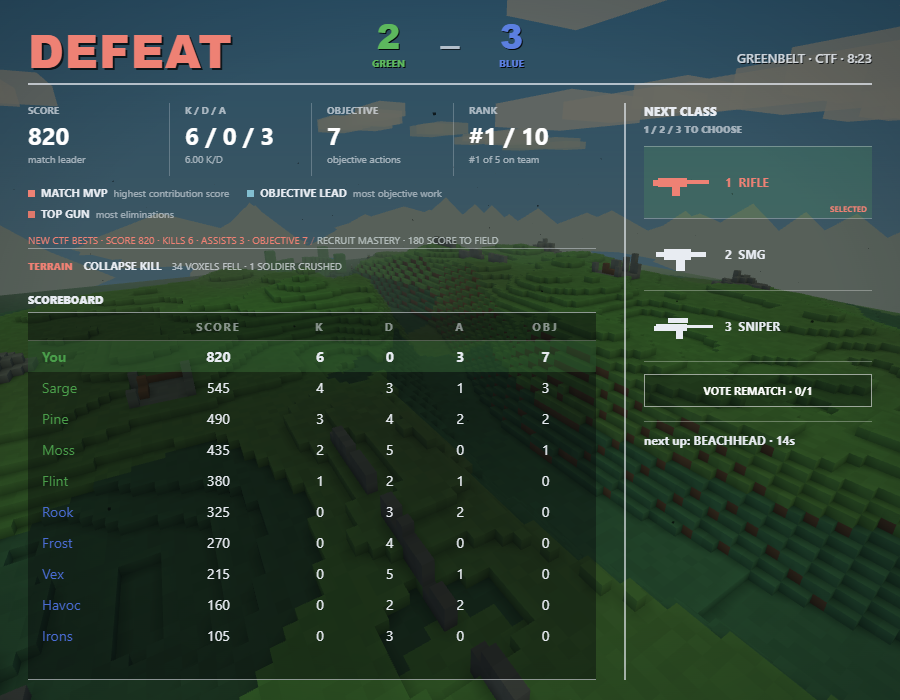
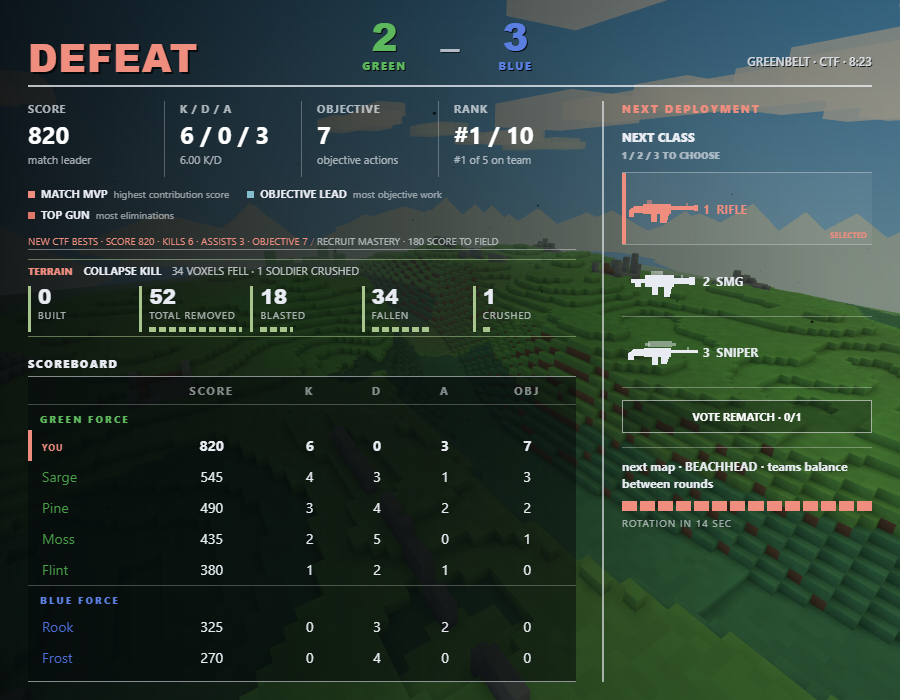
Give match results a Spadefall field-report identity

diff --git a/index.html b/index.html
@@ -185,38 +185,43 @@
      centers by its own visible width, so the block sits dead-center under
      the title instead of drifting right on invisible label padding. */
   .controls b { color:#ffd97a; font-weight:600; }
-  /* The result screen leaves the finished battlefield visible. Its few hard
-     rules resemble the scoreboard players already use during a round rather
-     than turning each fact into a decorative card. */
-  #end { justify-content:center; overflow:hidden; padding:20px 28px;
-    background:rgba(4,7,9,.58); --outcome:#9bd6ad; }
-  #end[data-outcome="defeat"] { --outcome:#ee8174; }
-  #endContent { width:min(1120px,100%); height:min(800px,calc(100vh - 40px));
-    display:grid; grid-template-rows:auto minmax(0,1fr); gap:18px; text-align:left; }
-  #endHeader { display:grid; grid-template-columns:1fr auto 1fr; align-items:end;
-    padding-bottom:13px; border-bottom:2px solid rgba(232,236,242,.72); }
-  #endTitle { color:var(--outcome); font:900 46px/.85 "Arial Black","Segoe UI",sans-serif;
+  /* Results are a hard-edged field report: the live battlefield remains visible
+     behind localized ink, while geometry and block counts carry meaning. */
+  #end { justify-content:center; overflow:hidden; padding:18px 28px;
+    background:linear-gradient(90deg,rgba(4,7,9,.90) 0%,rgba(4,7,9,.68) 48%,rgba(4,7,9,.34) 100%);
+    --outcome:#a9dfae; --terrain:#a7c58d; }
+  #end[data-outcome="defeat"] { --outcome:#ef8d7f; }
+  #end[data-map="beach"] { --terrain:#d0ad7c; }
+  #end[data-map="forest"] { --terrain:#b6a4cd; }
+  #end[data-map="desert"] { --terrain:#c9a16d; }
+  #end[data-map="crown"] { --terrain:#c7b778; }
+  #end[data-map="caldera"] { --terrain:#d18e73; }
+  #endContent { width:min(1210px,100%); height:min(850px,calc(100vh - 36px));
+    display:grid; grid-template-rows:auto minmax(0,1fr); gap:14px; text-align:left; }
+  #endHeader { display:grid; grid-template-columns:minmax(0,1fr) auto minmax(180px,1fr); align-items:end;
+    padding:0 0 12px; border-bottom:2px solid rgba(232,236,242,.78); }
+  #endTitle { color:var(--outcome); font:900 clamp(38px,4vw,58px)/.82 "Arial Black","Segoe UI",sans-serif;
     letter-spacing:1px; text-shadow:2px 2px 0 rgba(0,0,0,.72); }
-  #endScore { display:flex; align-items:flex-end; gap:16px; font-weight:800;
+  #endScore { display:flex; align-items:flex-end; gap:16px; font-weight:800; font-variant-numeric:tabular-nums;
     text-shadow:1px 1px 0 #05080a; }
-  #endScore .teamScore { min-width:72px; text-align:center; }
-  #endScore .teamScore b { display:block; font:900 35px/.9 "Arial Black","Segoe UI",sans-serif; }
-  #endScore .teamScore span { display:block; margin-top:4px; font-size:10px; }
+  #endScore .teamScore { min-width:80px; text-align:center; }
+  #endScore .teamScore b { display:block; font:900 39px/.9 "Arial Black","Segoe UI",sans-serif; }
+  #endScore .teamScore span { display:block; margin-top:5px; font-size:11px; letter-spacing:1.6px; }
   #endScore .green { color:var(--green); }
   #endScore .blue { color:var(--blue); }
   #endScore .divider { padding-bottom:13px; font-size:19px; opacity:.72; }
-  #endDetail { justify-self:end; padding-bottom:4px; font-size:13px; font-weight:600;
+  #endDetail { justify-self:end; padding-bottom:4px; font-size:12px; font-weight:600;
     text-align:right; text-shadow:1px 1px 0 #05080a; opacity:.85; }
-  #endBody { min-height:0; display:grid; grid-template-columns:minmax(0,1fr) 248px; gap:28px; }
+  #endBody { min-height:0; display:grid; grid-template-columns:minmax(0,1fr) 270px; gap:26px; }
   #endSummary { min-width:0; min-height:0; display:flex; flex-direction:column; }
   #endReport { flex:0 0 auto; border-bottom:1px solid rgba(232,236,242,.42); }
   #endStats { display:grid; grid-template-columns:repeat(4,1fr); }
-  .reportStat { min-width:0; padding:0 15px 10px; border-right:1px solid rgba(232,236,242,.26); }
+  .reportStat { min-width:0; padding:0 15px 10px; border-right:1px solid rgba(232,236,242,.3); }
   .reportStat:first-child { padding-left:0; }
   .reportStat:last-child { padding-right:0; border-right:0; }
-  .reportStat span { display:block; font-size:10px; font-weight:700; opacity:.68; }
+  .reportStat span { display:block; font-size:11px; font-weight:700; letter-spacing:.8px; opacity:.72; }
   .reportStat b { display:block; margin-top:2px; font-size:24px; color:#fff; }
-  .reportStat small { display:block; margin-top:1px; font-size:10px; opacity:.62; }
+  .reportStat small { display:block; margin-top:2px; font-size:11px; opacity:.68; }
   #endMedals { display:flex; flex-wrap:wrap; gap:6px 18px; min-height:20px;
     padding:9px 0 6px; }
   .medal { display:flex; align-items:baseline; gap:6px; white-space:nowrap; }
@@ -231,26 +236,39 @@
   #endBests::after { content:"  /  "; opacity:.45; }
   #endBests.new { color:var(--outcome); opacity:1; }
   #endMastery { color:#d9e3e4; }
-  #endFacts { flex:0 0 auto; padding:7px 0 4px; }
-  #endGoal, #endFieldwork, #endOperation, #endStory { display:none; padding:3px 0;
+  #endFacts { flex:0 0 auto; padding:9px 0 5px; }
+  #endGoal, #endFieldwork, #endOperation, #endStory { display:none; padding:4px 0;
     font-size:11px; line-height:1.35; text-transform:uppercase; }
   #endGoal.on, #endFieldwork.on { display:flex; justify-content:space-between; gap:16px; }
   #endOperation.on, #endStory.on { display:block; }
   #endGoalLabel, #endFieldworkLabel, #endOperationLabel, #endStoryLabel {
     margin-right:8px; font-size:10px; font-weight:800; color:var(--outcome); }
   #endGoalName, #endOperationTitle, #endStoryTitle { margin-right:7px; font-size:11px; }
-  #endGoalResult, #endFieldworkDetail, #endOperationDetail, #endStoryDetail { font-size:10px; opacity:.7; }
+  #endGoalResult, #endFieldworkDetail, #endOperationDetail, #endStoryDetail { font-size:11px; opacity:.75; }
+  #endStory { border-top:1px solid rgba(167,197,141,.55); border-bottom:1px solid rgba(167,197,141,.55); }
+  #endImpactMetrics { display:grid; grid-template-columns:repeat(5,minmax(56px,1fr)); gap:8px; margin-top:7px; }
+  .impactMetric { --fill:0%; border-left:3px solid var(--terrain); padding-left:7px; min-width:0; }
+  .impactMetric b { display:block; font:900 20px/1 "Arial Black","Segoe UI",sans-serif; font-variant-numeric:tabular-nums; }
+  .impactMetric span { display:block; margin-top:3px; font-size:10px; letter-spacing:.8px; opacity:.7; }
+  .impactMetric::after { content:""; display:block; width:var(--fill); height:5px; margin-top:5px;
+    background:repeating-linear-gradient(90deg,var(--terrain) 0 7px,transparent 7px 10px); }
   #operationLeaveBtn { display:none; margin:4px 0 0; padding:5px 0; color:#fff;
     background:transparent; border:0; border-bottom:1px solid rgba(255,255,255,.5);
     font:700 10px "Segoe UI",system-ui,sans-serif; cursor:pointer; }
   #operationLeaveBtn.on { display:block; }
-  #endBoardLabel { margin-top:5px; padding:7px 0 5px; font-size:11px; font-weight:800; }
-  #endBoard { min-height:0; flex:1; overflow:auto; background:rgba(4,7,9,.42);
+  #endBoardLabel { margin-top:7px; padding:7px 0 5px; font-size:11px; font-weight:800; letter-spacing:1.5px; }
+  #endBoard { min-height:0; flex:0 1 auto; max-height:min(46vh,410px); overflow:auto; background:rgba(4,7,9,.52);
     border-top:1px solid rgba(232,236,242,.56); border-bottom:1px solid rgba(232,236,242,.56); }
   #endBoard table.kd { width:100%; min-width:500px; border:0; border-radius:0; background:transparent; }
+  #endBoard table.kd .teamGroup td { padding:7px 12px 4px; text-align:left; font-size:10px; letter-spacing:2px; font-weight:800; border-top:1px solid rgba(255,255,255,.25); }
+  #endBoard table.kd .teamGroup.green td { color:var(--green); }
+  #endBoard table.kd .teamGroup.blue td { color:var(--blue); }
+  #endBoard table.kd .playerMarker { color:var(--outcome); font-size:9px; letter-spacing:1px; }
   #endBoard table.kd th { border-bottom:1px solid rgba(255,255,255,.24); }
-  #endBoard table.kd tr.me td { background:rgba(93,184,93,.22); }
+  #endBoard table.kd tr.me td { background:transparent; font-weight:700; }
+  #endBoard table.kd tr.me td:first-child { box-shadow:inset 4px 0 0 var(--outcome); }
   #endIntermission { min-width:0; padding-left:18px; border-left:2px solid rgba(232,236,242,.64); }
+  #endIntermission::before { content:'NEXT DEPLOYMENT'; display:block; margin-bottom:13px; color:var(--outcome); font-size:11px; font-weight:800; letter-spacing:2px; }
   #endClassPick { text-transform:uppercase; }
   #endClassPick .lbl { font-size:12px; font-weight:800; }
   #endClassPick .hint { display:block; margin-top:3px; font-size:10px; opacity:.62; }
@@ -261,11 +279,13 @@
     font:700 12px "Segoe UI",system-ui,sans-serif; cursor:pointer; }
   #endClassOpts .opt:last-child { border-bottom:1px solid rgba(255,255,255,.3); }
   #endClassOpts .opt:hover { background:rgba(255,255,255,.08); }
-  #endClassOpts .opt.picked { color:var(--outcome); background:rgba(93,184,93,.17); }
+  #endClassOpts .opt.picked { color:var(--outcome); background:rgba(255,255,255,.06);
+    box-shadow:inset 4px 0 0 var(--outcome); }
   #endClassOpts .opt.picked::after { content:"SELECTED"; position:absolute; right:5px; bottom:4px;
     font-size:8px; color:var(--outcome); }
-  .classGun { width:66px; height:38px; color:currentColor; }
-  .classGun rect { fill:currentColor; shape-rendering:crispEdges; }
+  .classGun { width:72px; height:40px; color:currentColor; shape-rendering:crispEdges; }
+  .classGun rect, .classGun polygon { fill:currentColor; }
+  .classGun .gunDetail { opacity:.48; }
   #rematchBtn, #squadBtn { width:100%; margin-top:12px; padding:8px 5px; color:#fff;
     background:rgba(4,7,9,.28); border:1px solid rgba(255,255,255,.56);
     font:700 11px "Segoe UI",system-ui,sans-serif; cursor:pointer; }
@@ -276,8 +296,13 @@
   #squadReady small { display:block; margin-top:5px; font-size:10px; line-height:1.3; opacity:.6; }
   #endNote { margin-top:14px; padding-top:10px; border-top:1px solid rgba(255,255,255,.3);
     font-size:12px; font-weight:700; line-height:1.4; }
+  #endProgress { display:flex; gap:3px; margin-top:9px; height:10px; }
+  #endProgress i { display:block; flex:1; background:rgba(255,255,255,.2); border:1px solid rgba(255,255,255,.2); }
+  #endProgress i.on { background:var(--outcome); border-color:var(--outcome); }
+  #endProgressLabel { display:block; margin-top:5px; font-size:10px; letter-spacing:1px; opacity:.65; }
   @media (max-width:760px) {
-    #end { justify-content:flex-start; overflow-y:auto; padding:14px 12px; }
+    #end { justify-content:flex-start; overflow-y:auto; padding:14px 12px;
+      background:linear-gradient(180deg,rgba(4,7,9,.82),rgba(4,7,9,.55)); }
     #endContent { height:auto; min-height:calc(100vh - 28px); gap:12px; }
     #endHeader { grid-template-columns:1fr auto; }
     #endTitle { font-size:36px; }
@@ -286,7 +311,12 @@
     #endScore .teamScore b { font-size:27px; }
     #endDetail { grid-column:1/-1; justify-self:start; margin-top:7px; padding:0; text-align:left; }
     #endBody { display:flex; flex-direction:column; gap:12px; }
-    #endIntermission { order:-1; padding:0 0 10px; border:0; border-bottom:2px solid rgba(255,255,255,.55); }
+    #endSummary { display:contents; }
+    #endReport { order:0; }
+    #endFacts { order:1; }
+    #endIntermission { order:2; padding:12px 0 10px; border:0; border-top:2px solid rgba(255,255,255,.55); }
+    #endBoardLabel { order:3; }
+    #endBoard { order:4; }
     #endClassPick .hint { display:inline; margin-left:6px; }
     #endClassOpts { flex-direction:row; }
     #endClassOpts .opt { flex:1; display:block; min-height:55px; padding:5px; text-align:center;
@@ -297,7 +327,12 @@
     #endStats { grid-template-columns:repeat(2,1fr); row-gap:8px; }
     .reportStat:nth-child(2) { border-right:0; }
     .reportStat:nth-child(3) { padding-left:0; }
-    #endBoard { max-height:300px; }
+    #endBoard { max-height:270px; flex:none; }
+    #endBoardLabel::after { content:' · SCROLL FOR FULL ROSTER'; color:var(--outcome); font-size:9px; letter-spacing:1px; }
+    #endImpactMetrics { gap:5px; }
+    .impactMetric { padding-left:5px; }
+    .impactMetric b { font-size:17px; }
+    .impactMetric span { font-size:9px; }
   }
 
   /* ---------- scoreboard (TAB overlay + end-of-round summary) ---------- */
@@ -977,6 +1012,13 @@
               <span id="endStoryLabel">TERRAIN</span>
               <b id="endStoryTitle"></b>
               <small id="endStoryDetail"></small>
+              <div id="endImpactMetrics" aria-label="Terrain impact metrics">
+                <div class="impactMetric"><b id="impactBuilt">0</b><span>BUILT</span></div>
+                <div class="impactMetric"><b id="impactRemoved">0</b><span>TOTAL REMOVED</span></div>
+                <div class="impactMetric"><b id="impactBlast">0</b><span>BLASTED</span></div>
+                <div class="impactMetric"><b id="impactCollapsed">0</b><span>FALLEN</span></div>
+                <div class="impactMetric"><b id="impactCrush">0</b><span>CRUSHED</span></div>
+              </div>
             </div>
           </div>
           <div id="endBoardLabel">SCOREBOARD</div>
@@ -987,22 +1029,34 @@
             <div class="lbl">NEXT CLASS <span class="hint">1 / 2 / 3 TO CHOOSE</span></div>
             <div id="endClassOpts">
               <button class="opt" type="button" data-cls="0">
-                <svg class="classGun" viewBox="0 0 66 38" aria-hidden="true">
-                  <rect x="9" y="15" width="29" height="9"/><rect x="38" y="17" width="22" height="4"/>
-                  <rect x="4" y="17" width="8" height="6"/><rect x="23" y="24" width="8" height="9"/>
+                <svg class="classGun" viewBox="0 0 82 40" aria-hidden="true">
+                  <polygon points="2,22 8,17 19,17 19,25 8,25 8,29 2,29"/>
+                  <rect x="18" y="14" width="32" height="12"/><rect x="50" y="17" width="27" height="4"/>
+                  <rect x="76" y="16" width="5" height="6"/><rect x="27" y="26" width="7" height="9"/>
+                  <polygon points="38,26 48,26 45,36 37,36"/>
+                  <rect class="gunDetail" x="23" y="10" width="5" height="4"/>
+                  <rect class="gunDetail" x="67" y="13" width="3" height="4"/>
                 </svg><span>1&nbsp; RIFLE</span>
               </button>
               <button class="opt" type="button" data-cls="1">
-                <svg class="classGun" viewBox="0 0 66 38" aria-hidden="true">
-                  <rect x="15" y="14" width="27" height="11"/><rect x="42" y="17" width="15" height="5"/>
-                  <rect x="7" y="17" width="10" height="5"/><rect x="27" y="25" width="9" height="11"/>
+                <svg class="classGun" viewBox="0 0 82 40" aria-hidden="true">
+                  <rect x="5" y="18" width="16" height="4"/><rect x="9" y="22" width="7" height="5"/>
+                  <rect x="20" y="13" width="33" height="14"/><rect x="53" y="17" width="19" height="6"/>
+                  <rect x="71" y="16" width="6" height="8"/><rect x="28" y="27" width="7" height="9"/>
+                  <polygon points="42,27 51,27 49,38 42,38"/>
+                  <rect class="gunDetail" x="27" y="9" width="14" height="4"/>
+                  <rect class="gunDetail" x="61" y="13" width="3" height="4"/>
                 </svg><span>2&nbsp; SMG</span>
               </button>
               <button class="opt" type="button" data-cls="5">
-                <svg class="classGun" viewBox="0 0 66 38" aria-hidden="true">
-                  <rect x="7" y="17" width="31" height="7"/><rect x="38" y="18" width="26" height="3"/>
-                  <rect x="19" y="11" width="20" height="5"/><rect x="5" y="19" width="6" height="5"/>
-                  <rect x="27" y="24" width="7" height="8"/>
+                <svg class="classGun" viewBox="0 0 82 40" aria-hidden="true">
+                  <polygon points="1,22 8,16 20,17 20,25 8,25 8,29 1,29"/>
+                  <rect x="19" y="15" width="31" height="11"/><rect x="50" y="18" width="31" height="3"/>
+                  <rect x="28" y="26" width="7" height="9"/><polygon points="39,26 48,26 45,34 39,34"/>
+                  <rect class="gunDetail" x="24" y="8" width="27" height="6"/>
+                  <rect class="gunDetail" x="21" y="10" width="5" height="3"/>
+                  <rect class="gunDetail" x="51" y="10" width="5" height="3"/>
+                  <rect class="gunDetail" x="68" y="14" width="3" height="4"/>
                 </svg><span>3&nbsp; SNIPER</span>
               </button>
             </div>
@@ -1013,11 +1067,15 @@
             <small>Your teammates already carry into the next round.</small>
           </div>
           <div id="endNote">rotating to the next map…</div>
+          <div id="endProgress" aria-label="Intermission progress">
+            <i></i><i></i><i></i><i></i><i></i><i></i><i></i><i></i><i></i><i></i><i></i><i></i><i></i><i></i>
+          </div>
+          <span id="endProgressLabel">ROTATION IN 14 SEC</span>
         </aside>
       </div>
     </div>
   </div>
 
-  <script type="module" src="./src/main.js?v=29"></script>
+  <script type="module" src="./src/main.js?v=30"></script>
 </body>
 </html>

diff --git a/src/game.js b/src/game.js
@@ -567,15 +567,28 @@ const hud = {
   // Scoreboard table, sorted by total contribution. Shared by the TAB overlay and the
   // end-of-round summary. Names are composed here from map keys that were
   // cleanName'd (local) or sanitized on receipt (client), so plain text.
-  kdTable(g) {
+  kdTable(g, { groupTeams = false } = {}) {
     const rows = rankContributionRows(g.kd.entries());
     const me = g.player ? g._kdKey(g.player) : null;
     const esc = s => String(s ?? '').replace(/&/g, '&amp;').replace(/</g, '&lt;');
     let html = '<table class="kd"><tr><th></th><th>SCORE</th><th>K</th><th>D</th><th>A</th><th>OBJ</th></tr>';
-    for (const [key, r] of rows) {
+    const ordered = groupTeams ? ['green', 'blue'].flatMap(team => {
+      const teamRows = rows.filter(([, r]) => r.team === team);
+      return teamRows.length ? [['__group__' + team, { team, group: true }], ...teamRows] : teamRows;
+    }) : rows;
+    for (const [key, r] of ordered) {
+      if (r.group) {
+        html += `<tr class="teamGroup ${r.team}"><td colspan="6">${r.team.toUpperCase()} FORCE</td></tr>`;
+        continue;
+      }
       const c = teamCss(r.team);
-      html += `<tr${key === me ? ' class="me"' : ''}>`
-        + `<td style="color:${c}">${esc(r.name)}</td>`
+      const isMe = key === me;
+      const ownName = String(r.name ?? '').trim().toUpperCase();
+      const name = isMe && (!ownName || ownName === 'YOU')
+        ? '<span class="playerMarker">YOU</span>'
+        : `${isMe ? '<span class="playerMarker">YOU</span> ' : ''}${esc(r.name)}`;
+      html += `<tr${isMe ? ' class="me"' : ''}>`
+        + `<td style="color:${c}">${name}</td>`
         + `<td>${Math.floor(r.score ?? 0)}</td><td>${r.k}</td><td>${r.d}</td>`
         + `<td>${r.a ?? 0}</td><td>${Math.floor(r.objective ?? 0)}</td></tr>`;
     }
@@ -630,6 +643,32 @@ const hud = {
     // to the rest of the game; the measured detail remains unchanged.
     $('endStoryTitle').textContent = labels[story.kind] ?? 'TERRAIN CHANGED';
     $('endStoryDetail').textContent = story.detail;
+    const m = story.metrics ?? {};
+    const values = [['impactBuilt', m.built], ['impactRemoved', m.removed],
+      ['impactBlast', m.blastRemoved], ['impactCollapsed', m.collapsed],
+      ['impactCrush', m.collapseKills]];
+    const peak = Math.max(1, ...values.map(([, value]) => Math.floor(value ?? 0)));
+    for (const [id, value] of values) {
+      const node = $(id);
+      if (!node) continue;
+      const count = Math.floor(value ?? 0);
+      node.textContent = count;
+      node.parentElement?.style.setProperty('--fill', count
+        ? `${Math.max(8, Math.round(count / peak * 100))}%` : '0%');
+    }
+  },
+  rotationProgress(seconds, active = true) {
+    const rail = $('endProgress');
+    const label = $('endProgressLabel');
+    if (!rail || !label) return;
+    rail.style.display = active ? 'flex' : 'none';
+    label.style.display = active ? 'block' : 'none';
+    if (!active) return;
+    const remaining = Math.max(0, Math.min(POST_MATCH_TIME, Number(seconds) || 0));
+    const blocks = Math.ceil(remaining / POST_MATCH_TIME * rail.children.length);
+    for (let i = 0; i < rail.children.length; i++)
+      rail.children[i].classList.toggle('on', i < blocks);
+    label.textContent = `ROTATION IN ${Math.ceil(remaining)} SEC`;
   },
   statsShow(g) {
     $('statsbody').innerHTML = this.kdTable(g);
@@ -3514,6 +3553,7 @@ export class Game {
     });
     $('endTitle').textContent = won ? 'VICTORY' : 'DEFEAT';
     $('end').dataset.outcome = won ? 'victory' : 'defeat';
+    $('end').dataset.map = MAPS[this.mapIndex]?.key ?? 'island';
     const next = MAPS[this._nextMap()].name;
     $('endGreenScore').textContent = this.hill
       ? holdClock(this.captures.green) : Math.floor(this.captures.green ?? 0);
@@ -3526,7 +3566,7 @@ export class Game {
     hud.voxelStory(story);
     hud.operation(this);
     hud.operationReport(this);
-    $('endBoard').innerHTML = hud.kdTable(this); // round contribution summary
+    $('endBoard').innerHTML = hud.kdTable(this, { groupTeams: true }); // round contribution summary
     hud.classPick(this.player._pendingClass);
     const operationDone = operationComplete(this.operation);
     const balanceNote = this.teamBalanceEnabled() && !this.operation
@@ -3534,8 +3574,10 @@ export class Game {
     $('endNote').textContent = (operationDone
       ? 'operation complete · vote for a new operation or leave'
       : this.mode === 'client'
-        ? `next up: ${next} · waiting for host`
-        : `next up: ${next} · ${POST_MATCH_TIME}s`) + balanceNote;
+        ? `next map · ${next} · waiting for host`
+        : `next map · ${next}`) + balanceNote;
+    hud.rotationProgress(operationDone || this.mode === 'client' ? 0 : POST_MATCH_TIME,
+      !operationDone && this.mode !== 'client');
     $('end').classList.remove('hidden');
     this.player.vmRoot.visible = false;
     // Normal intermissions retain pointer lock for a seamless automatic next
@@ -5410,9 +5452,7 @@ export class Game {
       this._updateMatchClock(dt);
     } else if (this._rotateT != null) {
       this._rotateT -= dt;
-      const note = $('endNote');
-      if (note) note.textContent = `next up: ${MAPS[this._nextMap()].name} · `
-        + `${Math.max(1, Math.ceil(this._rotateT))}s`;
+      hud.rotationProgress(this._rotateT, true);
       if (this._rotateT <= 0) { this._rotateT = null; this._rotate(); }
     }
     this._scoreBroadcastT -= dt;
